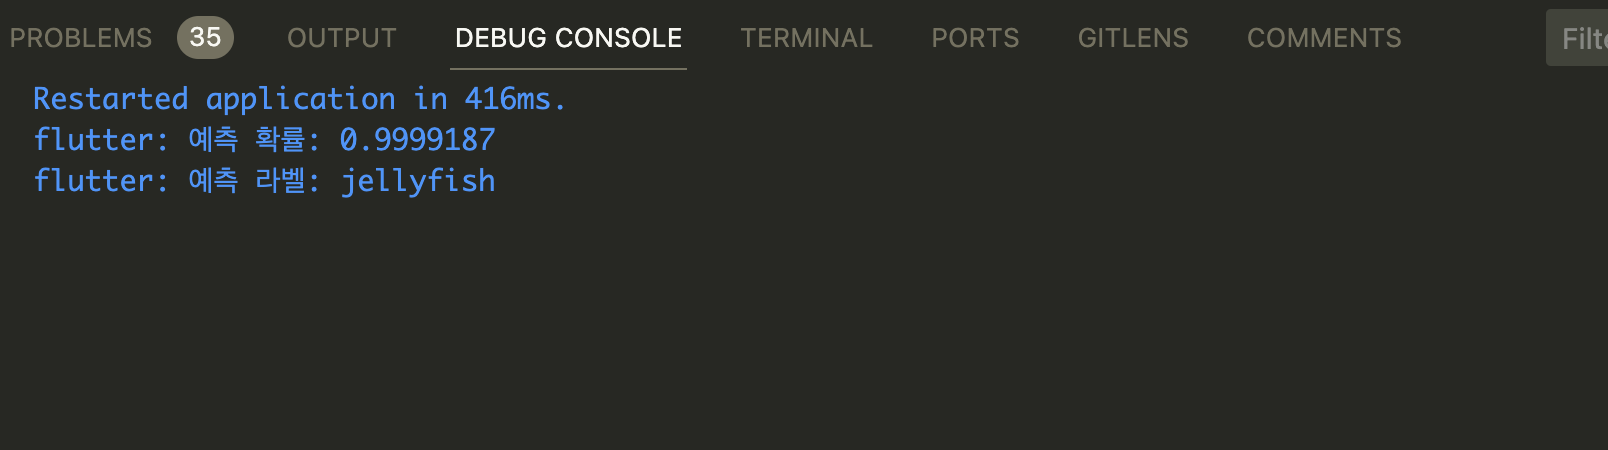
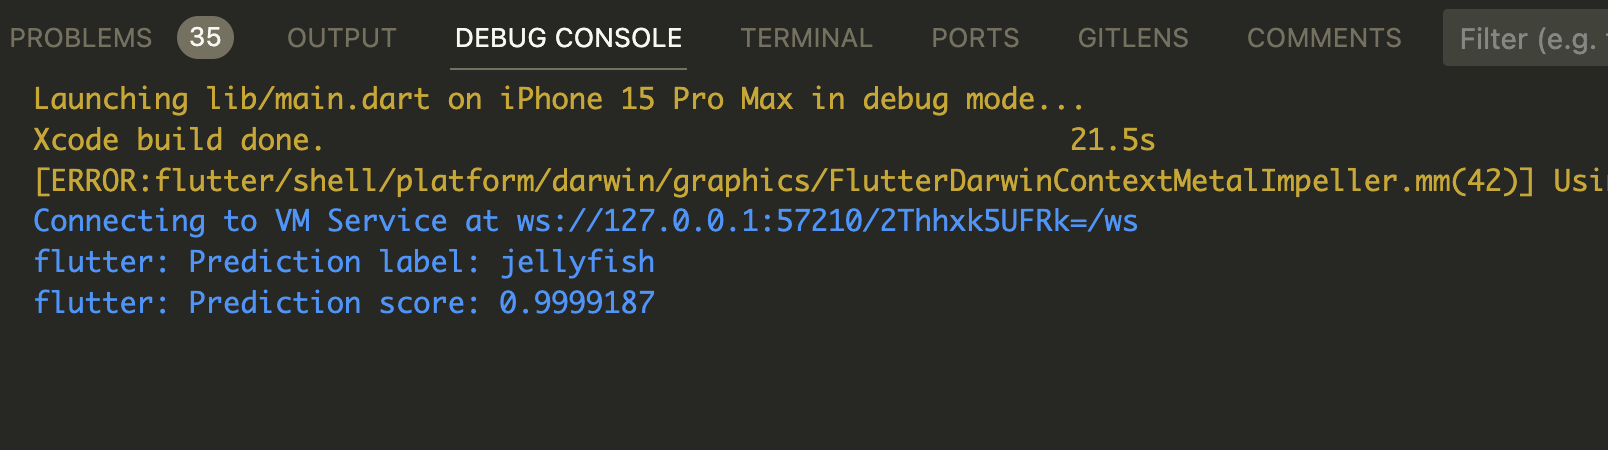
changed img/ added note

diff --git a/Flutter_quest/flutter_4/jelly.dart b/Flutter_quest/flutter_4/jelly.dart
@@ -27,13 +27,14 @@
 //   _MyHomePageState createState() => _MyHomePageState();
 // }
 
+
 // class _MyHomePageState extends State<MyHomePage> {
 //   String result = "";
 //   TextEditingController urlController = TextEditingController();
 
 //   Future<void> fetchData(int queryType) async {
 //     try {
-//       const enteredUrl = 'https://5dc8-34-83-37-72.ngrok-free.app/';
+//       const enteredUrl = 'https://5647-34-83-37-72.ngrok-free.app/';
 //       final response = await http.get(
 //         Uri.parse("${enteredUrl}sample1"),
 //         headers: {
@@ -45,9 +46,9 @@
 //         final data = jsonDecode(response.body);
 //         setState(() {
 //           if (queryType == 1) {
-//             result = "예측 라벨: ${data['predicted_label']}";
+//             result = "Predicted label: ${data['predicted_label']}";
 //           } else if (queryType == 2) {
-//             result = "예측 확률: ${data['prediction_score']}";
+//             result = "Predicted score: ${data['prediction_score']}";
 //           }
 //         });
 //       } else {
